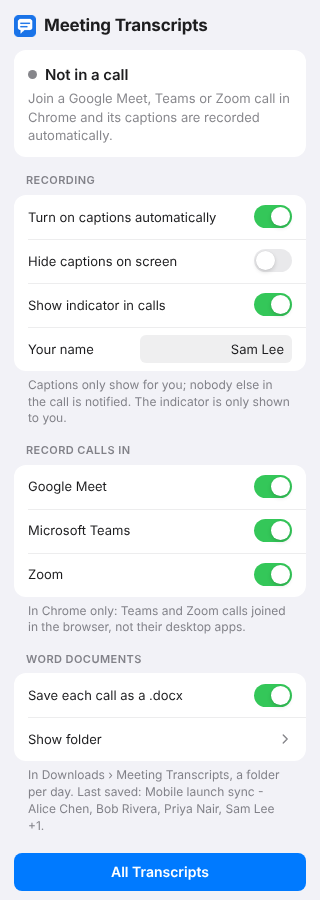
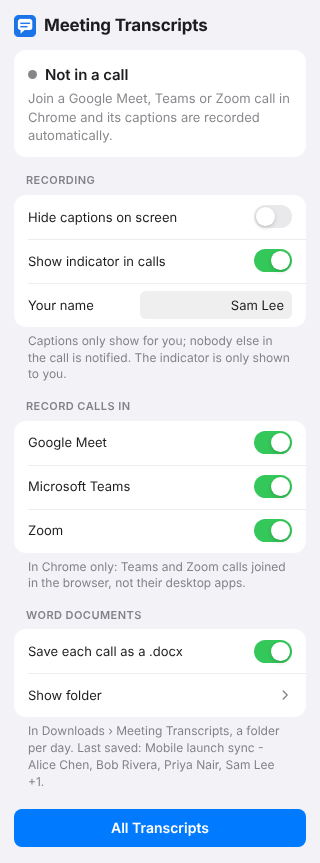
Always turn captions on; drop the auto-captions switch (2.0.1)
The transcript depends on captions, so a switch to not turn them on only
broke recording. Pausing is the way to keep a call out: while paused,
captions aren't turned on.

diff --git a/extension/lib/shared.js b/extension/lib/shared.js
@@ -5,14 +5,14 @@
 //                                  gaps: [{ from, to, reason }], nameMap: { old: new }, left } }
 //   t:<id>           -> [ { speaker, text, ts } ]   (ts = epoch ms when the line started)
 //   f:<id>           -> { downloadId, filename, savedAt, hash, error }   (the saved .docx)
-//   settings         -> { autoCaptions, hideCaptions, myName, paused, autoSave, showIndicator,
+//   settings         -> { hideCaptions, myName, paused, autoSave, showIndicator,
 //                         platforms: { meet, teams, zoom }, nameMap: { lowercased old: new } }
 //
 // Meetings recorded before Teams and Zoom support have no `platform`: they're Google Meet.
 
 const MT = (() => {
   const DEFAULT_SETTINGS = {
-    autoCaptions: true, hideCaptions: false, myName: "", paused: false, autoSave: true,
+    hideCaptions: false, myName: "", paused: false, autoSave: true,
     showIndicator: true, platforms: { meet: true, teams: true, zoom: true }, nameMap: {},
   };
 

diff --git a/extension/popup/popup.js b/extension/popup/popup.js
@@ -73,7 +73,6 @@ async function renderFiles() {
 
 async function init() {
   const s = await MT.getSettings();
-  $("autoCaptions").checked = s.autoCaptions;
   $("hideCaptions").checked = s.hideCaptions;
   $("showIndicator").checked = s.showIndicator;
   $("myName").value = s.myName;
@@ -91,7 +90,7 @@ async function init() {
     await navigator.clipboard.writeText(JSON.stringify(report || { error: "the page didn't answer" }, null, 2));
     $("diagnose").textContent = "Copied. Paste it into a GitHub issue (it has no transcript text).";
   });
-  for (const id of ["autoCaptions", "hideCaptions", "showIndicator"]) {
+  for (const id of ["hideCaptions", "showIndicator"]) {
     $(id).addEventListener("change", (e) => MT.saveSettings({ [id]: e.target.checked }));
   }
   $("myName").addEventListener("input", (e) => MT.saveSettings({ myName: e.target.value.trim() }));

diff --git a/extension/lib/docximport.js b/extension/lib/docximport.js
@@ -135,7 +135,7 @@ const DOCX_IMPORT = (() => {
     let data;
     try { data = JSON.parse(text); } catch { return null; }
     if (!data || data.app !== "meet-transcripts" || data.kind !== "library" || typeof data.meetings !== "object") return null;
-    const keep = { autoCaptions: "boolean", hideCaptions: "boolean", myName: "string", autoSave: "boolean",
+    const keep = { hideCaptions: "boolean", myName: "string", autoSave: "boolean",
       showIndicator: "boolean", platforms: "object", nameMap: "object" };
     const settings = Object.fromEntries(Object.entries(data.settings || {})
       .filter(([k, v]) => typeof v === keep[k] && v !== null && !Array.isArray(v)));

diff --git a/extension/content/recorder.js b/extension/content/recorder.js
@@ -297,7 +297,9 @@
   }
 
   async function tryEnableCaptions(force = false) {
-    if (!force && (!settings.autoCaptions || autoTries >= 3 || Date.now() - lastAutoTry < 8000)) return;
+    // Everything depends on captions, so they're always turned on; only not while paused,
+    // which is how you keep a call out of your transcripts.
+    if (!force && (settings.paused || autoTries >= 3 || Date.now() - lastAutoTry < 8000)) return;
     lastAutoTry = Date.now();
     autoTries++;
     try { await P.enableCaptions(); } catch (err) { console.warn("[Meeting Transcripts] couldn't turn on captions", err); }

diff --git a/extension/background.js b/extension/background.js
@@ -151,7 +151,7 @@ migrateFiles();
 
 const LIBRARY_FILE = FOLDER + "/library.json";
 const INTERIM_FILE = FOLDER + "/library (since reinstall).json";
-const BACKED_UP = ["autoCaptions", "hideCaptions", "myName", "autoSave", "showIndicator", "platforms", "nameMap"]; // not "paused": that's momentary
+const BACKED_UP = ["hideCaptions", "myName", "autoSave", "showIndicator", "platforms", "nameMap"]; // not "paused": that's momentary
 let libraryTimer = null;
 
 async function writeLibraryFile() {

diff --git a/extension/popup/popup.html b/extension/popup/popup.html
@@ -23,10 +23,6 @@
   <h2>Recording</h2>
   <section class="group">
     <label class="row">
-      <span>Turn on captions automatically</span>
-      <input type="checkbox" class="switch" id="autoCaptions">
-    </label>
-    <label class="row">
       <span>Hide captions on screen</span>
       <input type="checkbox" class="switch" id="hideCaptions">
     </label>

diff --git a/README.md b/README.md
@@ -166,7 +166,9 @@ names and settings.
 
 ### During a call
 
-Just join. The extension turns on captions and starts recording. The pill in the corner of
+Just join. The extension turns on captions and starts recording; there's nothing to set up.
+Don't want a call recorded? **Pause** first (popup or pill): while paused, captions aren't
+turned on and nothing is saved. The pill in the corner of
 the call and the badge on the toolbar icon tell you what's happening:
 
 | Badge | Pill | Meaning |
@@ -189,7 +191,6 @@ pop-up in the middle of your meeting.
 
 | Setting | What it does |
 |---|---|
-| Turn on captions automatically | Turns the call's captions on for you when you join |
 | Hide captions on screen | Keeps recording but hides the caption overlay |
 | Show indicator in calls | The *Recording captions* pill in the corner of the call |
 | Your name | Used instead of "You" in transcripts. Normally read from your account; set it to override |

diff --git a/CHANGELOG.md b/CHANGELOG.md
@@ -3,6 +3,12 @@
 Each version here becomes a release on GitHub, with the extension zip attached, as soon as
 it's pushed to `main` with the matching `version` in `extension/manifest.json`.
 
+## 2.0.1
+
+- Captions are always turned on when you join a call: everything depends on them, so the
+  *Turn on captions automatically* switch is gone. To keep a call out of your transcripts,
+  **Pause** (in the popup or the in-call pill); while paused, captions aren't turned on.
+
 ## 2.0.0
 
 ### Now records Microsoft Teams and Zoom too, and is called Meeting Transcripts
